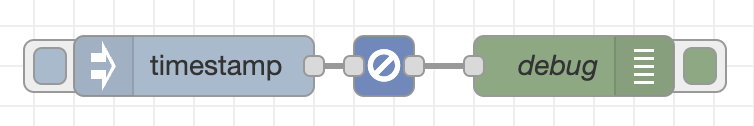
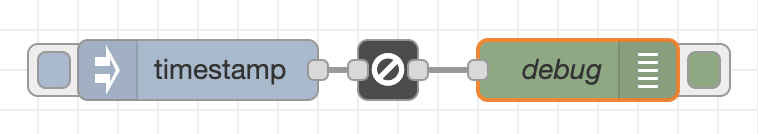
Use MM theme

Changed region(s): [[0.0305, 0.2619, 0.9761, 0.7857], [0.6711, 0.4286, 0.7931, 0.6429]]

diff --git a/gate.html b/gate.html
@@ -10,6 +10,15 @@
     // *****
 -->
 
+<!-- This (label) color definition needed to be done 
+    a second time @ onpaletteadd (bottom of script!)
+-->
+<style>
+    .mm_label_style {
+        fill: salmon
+    }
+</style>
+
 <script type="text/html" data-template-name="mcu-gate">
 
     <div class="form-row">
@@ -21,9 +30,17 @@
 
 <script type="text/javascript">
 
+    let gNC = RED.utils.getNodeColor;
+    RED.utils.getNodeColor = function(type, def) {
+        if (type == "mcu-gate") {
+            return "#505050";
+        }
+        return gNC(type, def);
+    }
+
     RED.nodes.registerType('mcu-gate',{
-        category: 'MCU',
-        color: '#7090c9',
+        color: "#C0C0C0",   // only for the flow library
+        category: 'MCU by MicroMagix',
         defaults: {
             name: {value:""},
             l: {value: true}
@@ -65,7 +82,19 @@
                     RED.view.redraw();
                 }
             }, 250);
-        }
+        },
+        labelStyle: function() {
+            let style = ["mm_label_style"];
+            if (this.name) {
+                style.push("node_label_italic")
+            }
+            return style.join(" ");
+        },
+        // micromagix theme
+        onpaletteadd: function(def) {
+            let pn = $(".red-ui-palette-node[data-palette-type='"+this.type+"']");
+            pn?.find(".red-ui-palette-label")?.css({"color": "salmon"});
+        },
     });
 
 </script>

diff --git a/README.md b/README.md
@@ -6,7 +6,7 @@ This package is a contribution to the [Node-RED MCU Edition](https://github.com/
 It provides a Node-RED node that implements a gate open only when the flow runs on an MCU.
 
 <img alt="mcuGate" src="resources/mcu-gate.png"
-    style="min-width: 111px; width: 111px; align: center; border: 1px solid lightgray;"/>
+    style="min-width: 77px; width: 77px; align: center; border: 1px solid lightgray;"/>
 
 ## Rational
 Flows designed to be run on an MCU tend to emit error messages during development - as the system they are developed on lacks dedicated features the flow expects to operate with. These error messages flood the Debug Panel and fog the view to relevant data.
@@ -125,7 +125,7 @@ cd <userDir>
 ```
 then
 ```bash
-npm install @ralphwetzel/node-red-mcu-plugin
+npm install @ralphwetzel/node-red-mcu-gate
 ```
 
 Please refer to the [Node-RED documentation](https://nodered.org/docs/user-guide/runtime/configuration) for details regarding `<userDir>`.
